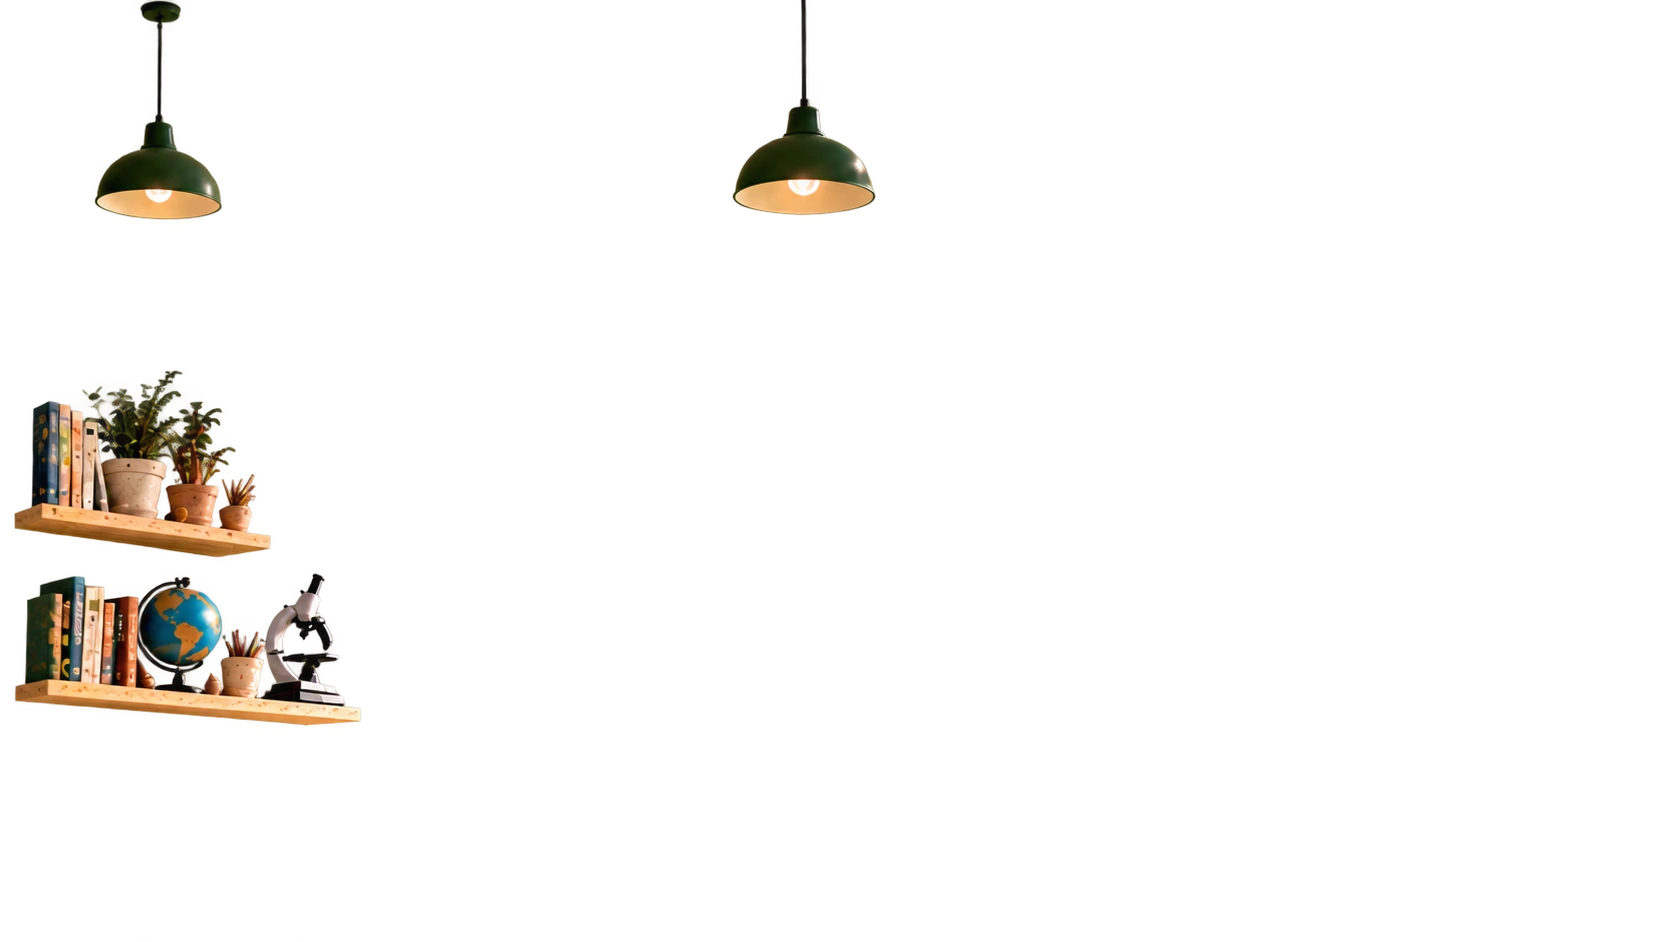
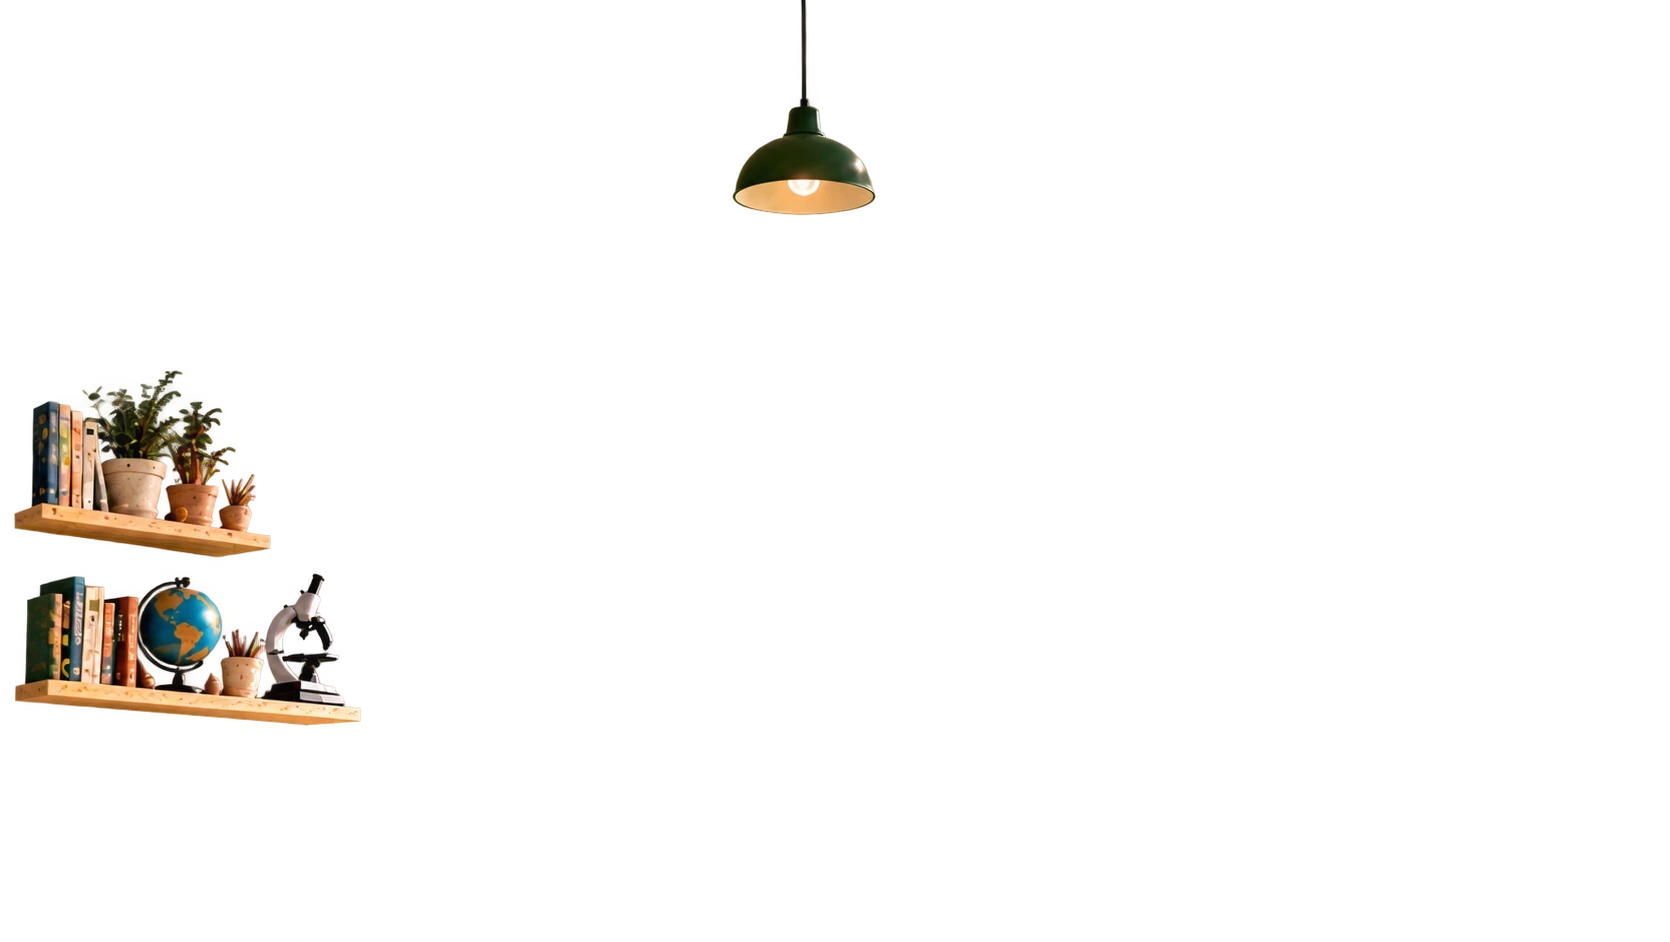
feat(landing): hero without the top-left lamp and the centre-top hanging branch

Changed region(s): [[0.0311, 0.1231, 0.1557, 0.2463], [0.0623, 0.0, 0.1246, 0.0308]]

diff --git a/frontend/src/app/[locale]/(marketing)/_components/HeroScene.tsx b/frontend/src/app/[locale]/(marketing)/_components/HeroScene.tsx
@@ -25,7 +25,7 @@ const DURATION_MS = 22800;
 const CAMERA_MS = 3960;
 const AIM = { x: 1227, y: 496 };
 // bump when the designer delivers corrected artwork, so no browser keeps an older cached copy
-const REV = "hero-2026-10-14c";
+const REV = "hero-2026-10-14d";
 const src = (name: string) => `/landing/hero-final/${name}.webp?v=${REV}`;
 
 const clamp01 = (x: number) => Math.max(0, Math.min(1, x));
